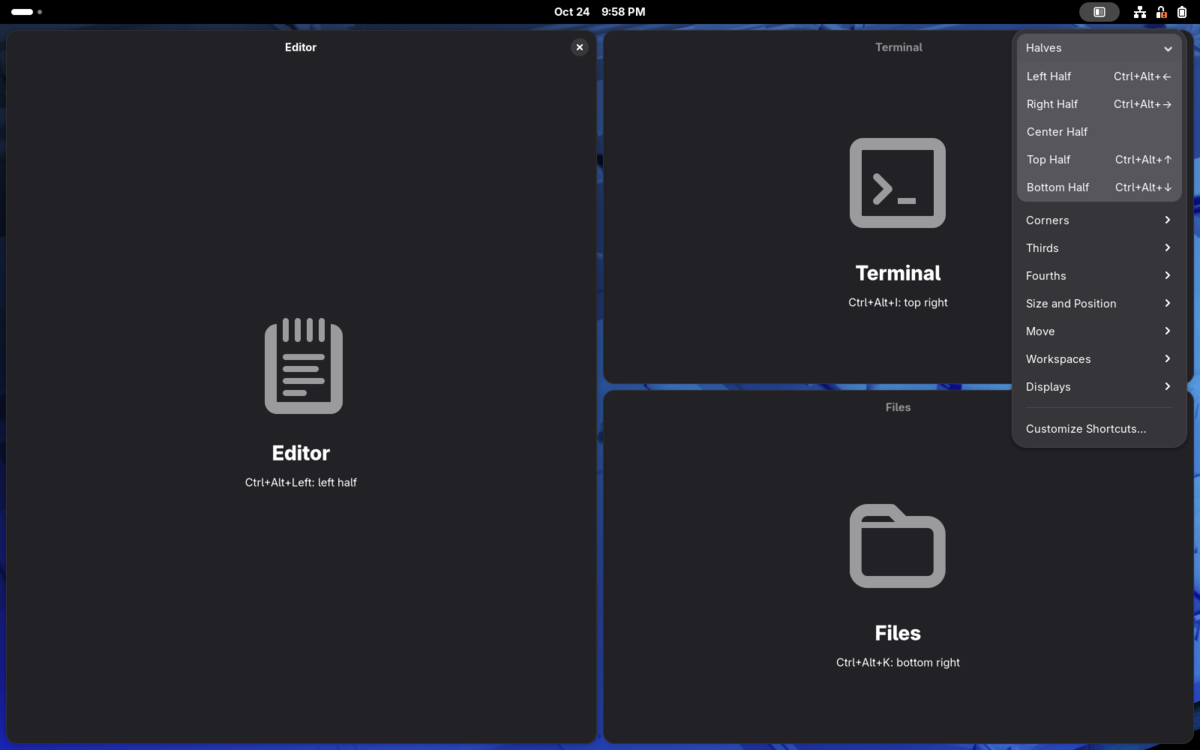
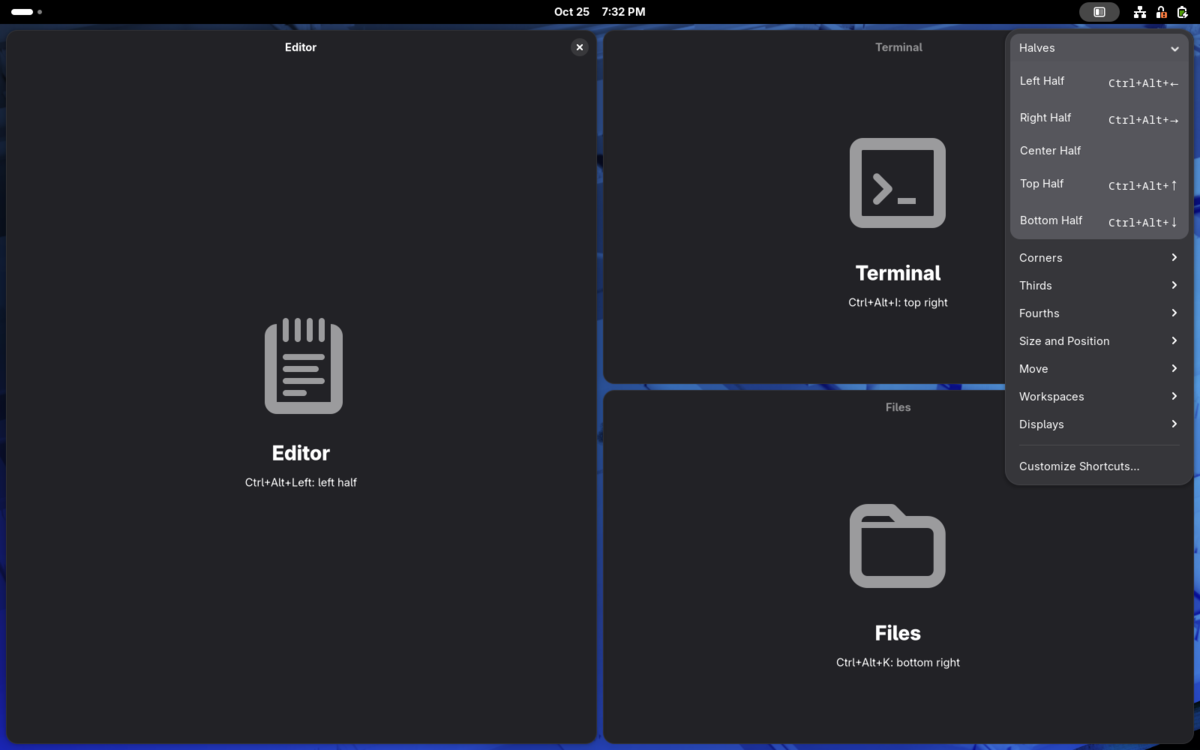
Show keys in a coding font in the top bar menu and Identify Displays (#33)
The keys in the top bar menu and the Identify Displays numbers now use
**JetBrainsMono Nerd Font → JetBrains Mono → monospace**. Everything
else keeps the shell's font.

- **Why the first try did nothing:** St silently drops a `font-family`
whose list has two *quoted* names in a row. I bisected this in a
headless shell: one quoted name plus `monospace` works, `'A', 'B',
monospace` doesn't, and unquoted names (valid CSS) do. So the names in
`stylesheet.css` are unquoted, with a comment explaining why. A new
smoke check asserts the resolved font family.
- **Arrow keys:** JetBrains Mono draws ← → ↑ ↓ much smaller than
letters. The menu sets its keys as Pango markup with the arrows at 150%
(`acceleratorMarkup()`, unit tested).
- **Preferences unchanged:** GTK draws keycap text itself, so the arrows
can't be enlarged there, and its keycaps already read as keys.
- A shortcut's warning reason is now its own label, so it stays in the
normal font. The menu smoke check finds the keys by class.
- `menu.png` regenerated; CHANGELOG entry under Unreleased.

Tested with `pnpm check` (91 tests) and the smoke test in `ubuntu:24.04`
(all checks pass).

diff --git a/src/indicator.ts b/src/indicator.ts
@@ -8,7 +8,7 @@ import { gettext as _ } from 'resource:///org/gnome/shell/extensions/extension.j
 import * as PanelMenu from 'resource:///org/gnome/shell/ui/panelMenu.js';
 import * as PopupMenu from 'resource:///org/gnome/shell/ui/popupMenu.js';
 
-import { acceleratorLabel } from './core/accelerators.js';
+import { acceleratorLabel, acceleratorMarkup } from './core/accelerators.js';
 import { ACTIONS, GROUP_LABELS, type ActionGroup, type ActionId } from './core/actions.js';
 import { problemText, shortcutProblems, type ShortcutProblem } from './gnome-shortcuts.js';
 
@@ -87,6 +87,12 @@ export class Indicator extends PanelMenu.Button {
       y_align: Clutter.ActorAlign.CENTER,
     });
     item.add_child(shortcut);
+    const reason = new St.Label({
+      style_class: 'gnometangle-reason',
+      y_align: Clutter.ActorAlign.CENTER,
+      visible: false,
+    });
+    item.add_child(reason);
     const warning = new St.Icon({
       icon_name: 'dialog-warning-symbolic',
       style_class: 'popup-menu-icon gnometangle-warning',
@@ -96,8 +102,9 @@ export class Indicator extends PanelMenu.Button {
 
     let problem: ShortcutProblem | undefined;
     const refresh = () => {
-      const keys = acceleratorLabel(this.settings.get_strv(id)[0] ?? '');
-      shortcut.text = problem ? `${keys}  ${problemText(problem, _)}` : keys;
+      shortcut.clutter_text.set_markup(acceleratorMarkup(acceleratorLabel(this.settings.get_strv(id)[0] ?? '')));
+      reason.text = problem ? problemText(problem, _) : '';
+      reason.visible = problem !== undefined;
       warning.visible = problem !== undefined;
     };
     refresh();

diff --git a/src/stylesheet.css b/src/stylesheet.css
@@ -1,8 +1,19 @@
-/* Shortcut shown at the right edge of each action in the top bar menu. */
+/* Shortcut shown at the right edge of each action in the top bar menu. Keys are set in a coding
+   font, JetBrains Mono when it is installed, so they read as keys; the rest keeps the shell's font.
+   Family names stay unquoted: St drops a font-family with two quoted names in a row. */
 .gnometangle-shortcut {
   margin-left: 2em;
-  font-feature-settings: 'tnum';
+  font-family:
+    JetBrainsMono Nerd Font,
+    JetBrains Mono,
+    monospace;
   opacity: 0.6;
+}
+
+/* Why a shortcut won't work, next to its keys. */
+.gnometangle-reason {
+  margin-left: 1em;
+  opacity: 0.8;
 }
 
 /* A shortcut that won't work: Mutter refused it, or something else uses the same keys. */
@@ -12,6 +23,10 @@
 
 /* Identify Displays: each display's number, shown in its middle for a moment. */
 .gnometangle-identify {
+  font-family:
+    JetBrainsMono Nerd Font,
+    JetBrains Mono,
+    monospace;
   font-size: 96pt;
   font-weight: bold;
   color: #ffffff;

diff --git a/test/accelerators.test.ts b/test/accelerators.test.ts
@@ -2,6 +2,7 @@ import { describe, expect, it } from 'vitest';
 
 import {
   acceleratorLabel,
+  acceleratorMarkup,
   acceleratorSet,
   normalizeAccelerator,
   releaseAccelerator,
@@ -102,5 +103,16 @@ describe('releaseAccelerator', () => {
 
   it('returns nothing when no other action uses the keys', () => {
     expect(releaseAccelerator(shortcuts, 'center', '<Control><Alt>x').size).toBe(0);
+  });
+});
+
+describe('acceleratorMarkup', () => {
+  it('enlarges arrow keys', () => {
+    expect(acceleratorMarkup('Ctrl+Alt+←')).toBe('Ctrl+Alt+<span size="150%">←</span>');
+  });
+
+  it('escapes markup characters and leaves other keys alone', () => {
+    expect(acceleratorMarkup('Ctrl+Alt+<')).toBe('Ctrl+Alt+&lt;');
+    expect(acceleratorMarkup('Ctrl+Alt+U')).toBe('Ctrl+Alt+U');
   });
 });

diff --git a/src/identify.ts b/src/identify.ts
@@ -17,7 +17,11 @@ export class DisplayIdentifier {
     this.hide();
     monitors.forEach((monitor, i) => {
       const geometry = global.display.get_monitor_geometry(monitor);
-      const label = new St.Label({ text: `${i + 1}`, style_class: 'gnometangle-identify', opacity: 0 });
+      const label = new St.Label({
+        text: `${i + 1}`,
+        style_class: 'gnometangle-identify',
+        opacity: 0,
+      });
       Main.layoutManager.uiGroup.add_child(label);
       label.set_position(
         geometry.x + Math.round((geometry.width - label.width) / 2),

diff --git a/src/core/accelerators.ts b/src/core/accelerators.ts
@@ -120,3 +120,12 @@ export function releaseAccelerator(
   }
   return released;
 }
+
+/**
+ * Pango markup for a shortcut label, with the arrow keys enlarged: coding fonts such as
+ * JetBrains Mono draw arrows much smaller than letters.
+ */
+export function acceleratorMarkup(label: string): string {
+  const escaped = label.replace(/&/g, '&amp;').replace(/</g, '&lt;').replace(/>/g, '&gt;');
+  return escaped.replace(/[←→↑↓]/g, '<span size="150%">$&</span>');
+}

diff --git a/CHANGELOG.md b/CHANGELOG.md
@@ -7,6 +7,11 @@
 - The release notes on GitHub start with this changelog's section for the version.
 - README: how to get Mac-style Super+C / X / V copy, cut and paste everywhere with keyd.
 
+### Changed
+
+- The top bar menu and Identify Displays show keys in a coding font (JetBrains Mono when it's installed), with
+  the arrow keys drawn large enough to read. A shortcut's warning reason is a separate label in the normal font.
+
 ## 0.2.0 (2026-10-24)
 
 ### Upgrading
